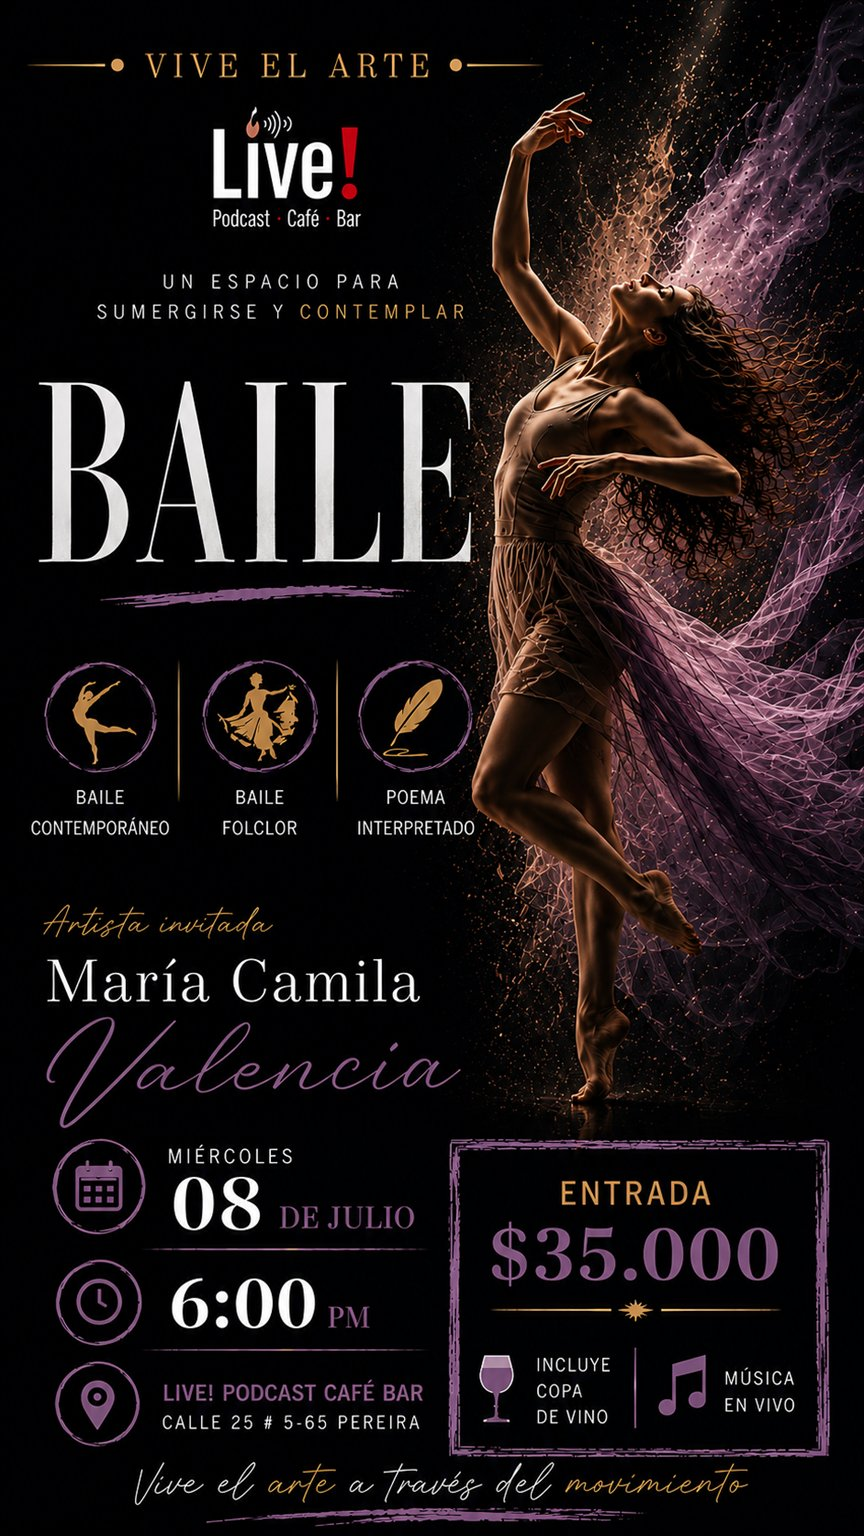
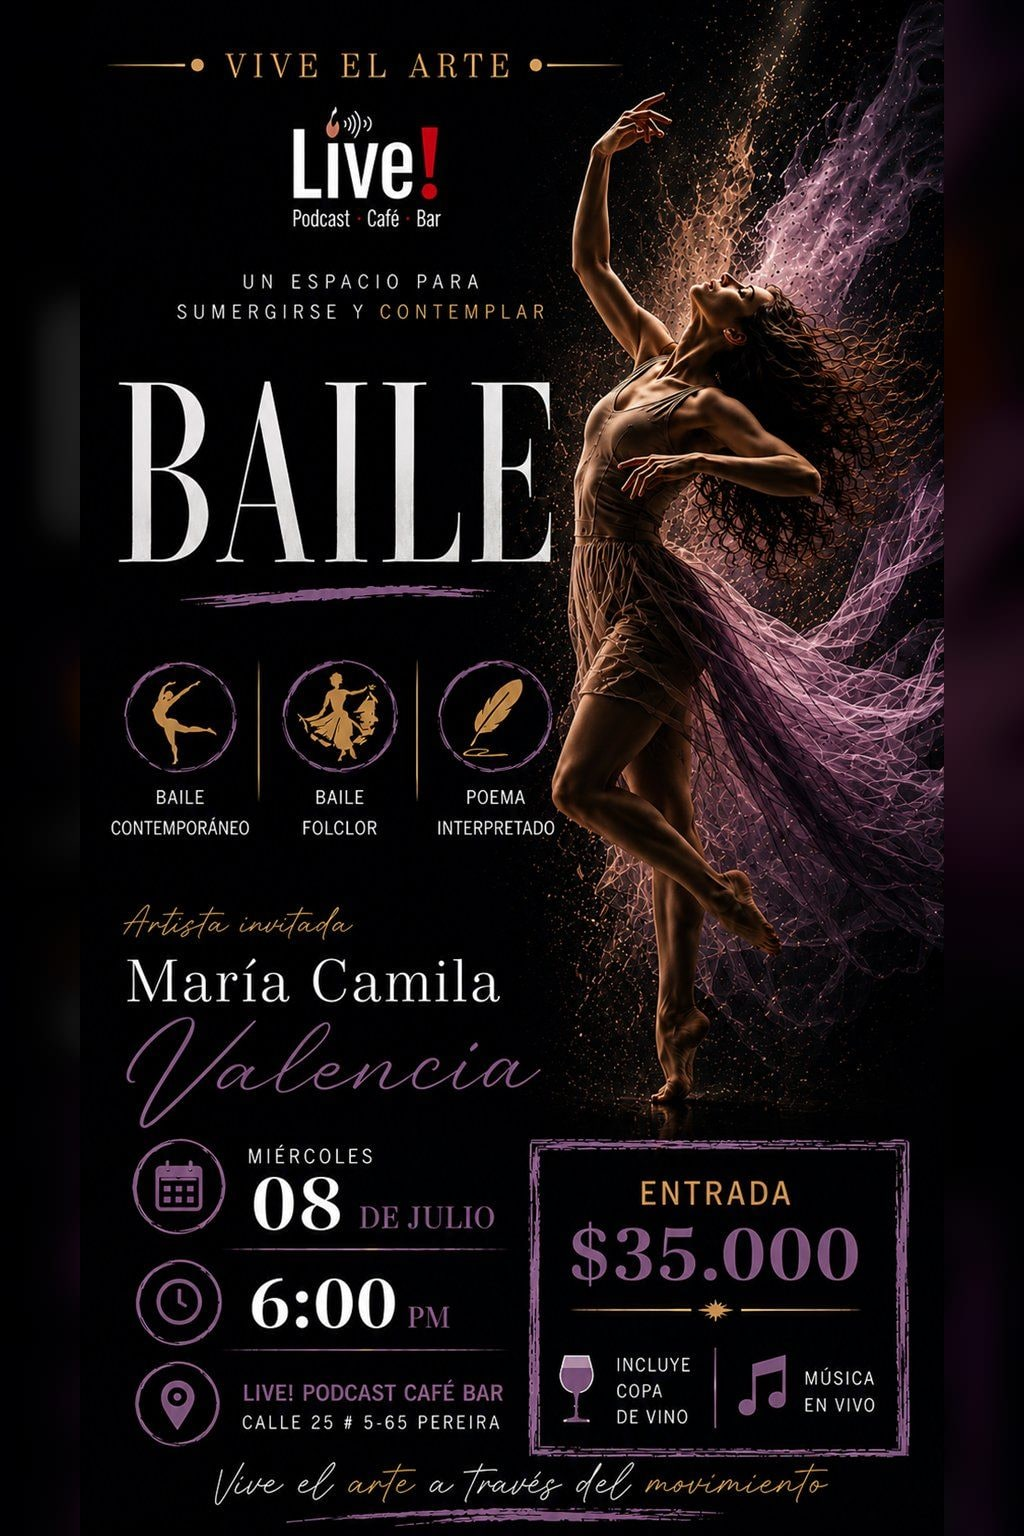
align event 7 and 8 flyers

Changed region(s): [[0.0312, 0.0, 1.0, 1.0], [0.125, 0.0312, 0.5312, 0.2188]]

diff --git a/script.js b/script.js
@@ -368,7 +368,7 @@ const events = [
     subtitle: "Expresión en movimiento",
     category: "Especial",
     date: "8 de julio, 6:00 p.m.",
-    image: "optimized/flyers/7.jpg",
+    image: "optimized/flyers/7.jpg?v=20260727-3",
     gallery: [
       "7/LIVE 1.jpg.jpeg",
       "7/LIVE 3.jpg.jpeg",
@@ -401,7 +401,7 @@ const events = [
     subtitle: "Palabra, poesía y música en vivo",
     category: "General",
     date: "22 de julio, desde las 6:00 p.m.",
-    image: "optimized/flyers/8.jpg?v=20260727-2",
+    image: "optimized/flyers/8.jpg?v=20260727-4",
     gallery: [
       "8/LIVE 32.jpg.jpeg",
       "8/LIVE 33.jpg.jpeg",
